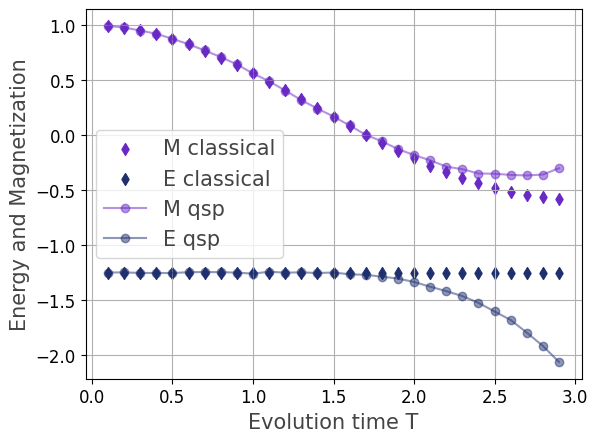
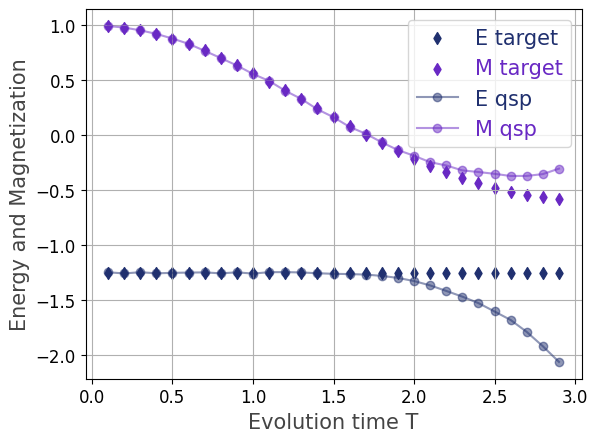
Renamed qsp state_preparation to fourier_series_loader; some improvements to qsp documentation

diff --git a/src/qrisp/algorithms/gqsp/fourier_series_loader.py b/src/qrisp/algorithms/gqsp/fourier_series_loader.py
@@ -33,7 +33,8 @@ def U(qv, scaling_factor=1.0):
         p(scaling_factor * np.pi * 2.0 ** (i - qv.size + 1), qv[i])
 
 
-def state_preparation(qarg, target_array, k=1, mode="standard"):
+# QSP version of https://iopscience.iop.org/article/10.1088/2058-9565/acfc62
+def fourier_series_loader(qarg, signal=None, frequencies=None, k=1, mode="standard"):
     r"""
     Performs band-limited quantum state preparation.
 
@@ -70,11 +71,14 @@ def state_preparation(qarg, target_array, k=1, mode="standard"):
     ----------
     qarg : QuantumVariable
         The input variable in state $\ket{0}$.
-    target_array : ndarray
+    signal : ndarray, optional
         1-D array of input signal values with shape ``(M,)``.
+        Either ``signal`` or ``frequencies`` must be specified.
+    frequencies : ndarray, optional
+        1-D array of input frequency values in the range $[-K,K]$ with shape ``(2K+1,)``.
     k : int, optional
         The frequency cutoff. Only frequencies in the range $[-k,k]$ are preserved.
-    mode: str, optional
+    mode : str, optional
         Available are 
         
         - ``"standard"``: frequencies are caluclated from ``target_array`` via FFT,
@@ -97,17 +101,17 @@ def state_preparation(qarg, target_array, k=1, mode="standard"):
         import matplotlib.pyplot as plt
         import numpy as np
         from qrisp import *
-        from qrisp.gqsp import state_preparation
+        from qrisp.gqsp import fourier_series_loader
 
 
         # Gaussian 
         def f(x):
-            return jnp.exp(-2*x**2)
+            return jnp.exp(-2 * x ** 2)
 
 
         # Converts the function to be executed within a repeat-until-success (RUS) procedure.
         @RUS(static_argnums=1)
-        def preprare_gaussian(n, k):
+        def prepare_gaussian(n, k):
 
             # Evaluate f at equidistant sample points
             delta = 2.0 ** (-2 * k)
@@ -116,7 +120,7 @@ def state_preparation(qarg, target_array, k=1, mode="standard"):
             y_val = y_val / jnp.linalg.norm(y_val)
 
             qv = QuantumFloat(n)
-            qbl = state_preparation(qv, y_val, k=k)
+            qbl = fourier_series_loader(qv, y_val, k=k)
             success_bool = measure(qbl) == 0
             return success_bool, qv
 
@@ -125,34 +129,32 @@ def state_preparation(qarg, target_array, k=1, mode="standard"):
         # and afterwards samples from the resulting quantum state.
         @terminal_sampling
         def main():
-            qv =  preprare_gaussian(10, 2)
+            qv =  prepare_gaussian(10, 2)
             return qv   
 
 
         # Convert the resulting measurement probabilities to amplitudes by appling the square root.
         res_dict = main()
         for k,v in res_dict.items():
-            res_dict[k] = v**0.5 
+            res_dict[k] = v ** 0.5 
         y_val_sim = np.array([res_dict.get(key,0) for key in sorted(res_dict.keys())])
         y_val_sim = y_val_sim/np.linalg.norm(y_val_sim)
 
-        # Compare to classical values
+        # Compare to target values
         x_val = np.linspace(-1, 1, len(y_val_sim))
         y_val = f(x_val)
         y_val = y_val / np.linalg.norm(y_val)
 
-        plt.scatter(x_val, y_val, color='#20306f', marker="o", linestyle="solid", s=20, label="classical")
-        plt.scatter(x_val, y_val_sim, color='#6929C4', marker="d", linestyle="solid", s=20, label="quantum")
-        plt.xlabel("x", fontsize=16, color="#444444")
-        plt.ylabel("Amplitudes f(x)", fontsize=16, color="#444444")
-        plt.xticks(fontsize=12)
-        plt.yticks(fontsize=12)
-        plt.legend(fontsize=16, labelcolor='linecolor')
-        plt.tight_layout()
+        plt.scatter(x_val, y_val, color='#20306f', marker="d", linestyle="solid", s=20, label="target")
+        plt.scatter(x_val, y_val_sim, color='#6929C4', marker="o", linestyle="solid", s=20, label="qsp")
+        plt.xlabel("x", fontsize=15, color="#444444")
+        plt.ylabel("Amplitudes f(x)", fontsize=15, color="#444444")
+        plt.legend(fontsize=15, labelcolor='linecolor')
+        plt.tick_params(axis='both', labelsize=12)
         plt.grid()
         plt.show()
 
-    .. image:: /_static/gaussian.png
+    .. image:: /_static/qsp_gaussian.png
         :alt: Gaussian state preparation
         :align: center
         :width: 600px
@@ -163,7 +165,7 @@ def state_preparation(qarg, target_array, k=1, mode="standard"):
 
         @count_ops(meas_behavior="0")
         def main():
-            qv =  preprare_gaussian(10, 2)
+            qv =  prepare_gaussian(10, 2)
             return qv   
 
         main()
@@ -172,25 +174,31 @@ def state_preparation(qarg, target_array, k=1, mode="standard"):
     """
     
     ALLOWED_MODES = {"standard", "mirror"}
-    
-    if mode=="standard":
-        # Discrete Fourier transform
-        frequencies = jnp.fft.fft(target_array)
-        scaling_factor = 1.0
-    elif mode=="mirror":
-        # Mirror padding to mitiagate artifacts at the boundaries
-        target_array_mirr = jnp.concatenate([target_array, target_array[::-1]])
-        # Discrete Fourier transform
-        frequencies = jnp.fft.fft(target_array_mirr)
-        scaling_factor = 0.5
-    else:
-        raise ValueError(
-            f"Invalid mode specified: '{mode}'. "
-            f"Allowed kinds are: {', '.join(ALLOWED_MODES)}"
-        )
 
-    # Compression
-    compressed_frequencies = jnp.concatenate([frequencies[-k:], frequencies[:k+1]])
+    if frequencies is not None:
+        K = (len(frequencies) - 1) // 2 
+        compressed_frequencies = frequencies[K-k : K+k+1]
+    elif signal is not None:
+        if mode=="standard":
+            # Discrete Fourier transform
+            frequencies = jnp.fft.fft(signal)
+            scaling_factor = 1.0
+        elif mode=="mirror":
+            # Mirror padding to mitiagate artifacts at the boundaries
+            target_array_mirr = jnp.concatenate([signal, signal[::-1]])
+            # Discrete Fourier transform
+            frequencies = jnp.fft.fft(target_array_mirr)
+            scaling_factor = 0.5
+        else:
+            raise ValueError(
+                f"Invalid mode specified: '{mode}'. "
+                f"Allowed kinds are: {', '.join(ALLOWED_MODES)}"
+            )
+
+        # Compression
+        compressed_frequencies = jnp.concatenate([frequencies[-k:], frequencies[:k+1]])
+    else:
+        raise Exception("Either signal or frequencies must be specified")
 
     h(qarg)
 

diff --git a/src/qrisp/algorithms/gqsp/hamiltonian_simulation.py b/src/qrisp/algorithms/gqsp/hamiltonian_simulation.py
@@ -155,13 +155,13 @@ def hamiltonian_simulation(qarg, H, t=1, N=1):
         M_qsp, E_qsp = sim_qsp(T_values, H, M)
 
         # Plot the results
-        plt.scatter(T_values, M_classical, color='#6929C4', marker="d", label="M classical")
-        plt.scatter(T_values, E_classical, color='#20306f', marker="d", label="E classical")
+        plt.scatter(T_values, E_classical, color='#20306f', marker="d", label="E target")
+        plt.scatter(T_values, M_classical, color='#6929C4', marker="d", label="M target")
+        plt.plot(T_values, E_qsp, color='#20306f', marker="o", linestyle="solid", alpha=0.5, label="E qsp")
         plt.plot(T_values, M_qsp, color='#6929C4', marker="o", linestyle="solid", alpha=0.5, label="M qsp")
-        plt.plot(T_values, E_qsp, color='#20306f', marker="o", linestyle="solid", alpha=0.5, label="E qsp}")
         plt.xlabel("Evolution time T", fontsize=15, color="#444444")
         plt.ylabel("Energy and Magnetization", fontsize=15, color="#444444")
-        plt.legend(fontsize=15, labelcolor="#444444")
+        plt.legend(fontsize=15, labelcolor='linecolor')
         plt.tick_params(axis='both', labelsize=12)
         plt.grid()
         plt.show()

diff --git a/src/qrisp/algorithms/gqsp/convolution.py b/src/qrisp/algorithms/gqsp/convolution.py
@@ -79,11 +79,11 @@ def convolve(qarg, weights):
 
     ::
 
-        from scipy.ndimage import convolve
+        from scipy.ndimage import convolve as scipy_convolve
 
         # Mode 'wrap' performs cyclic convolution
-        convolved_signal = convolve(psi, f, mode='wrap')
-        print(convolved_signal)
+        convolved_signal_target = scipy_convolve(psi, f, mode='wrap')
+        print(convolved_signal_target)
         # [0.75 1.   1.   0.75 0.25 0.   0.   0.25]
 
     ::
@@ -116,7 +116,8 @@ def convolve(qarg, weights):
         max_ = max(res_dict.values())
         for k,v in res_dict.items():
             res_dict[k] = (v / max_) ** 0.5 
-        np.array([res_dict.get(key,0) for key in range(8)])
+        convolved_signal = np.array([res_dict.get(key,0) for key in range(8)])
+        print(convolved_signal)
         #array([0.7499999 , 1.        , 1.        , 0.74999996, 0.24999994, 0.        , 0.        , 0.25000007])
 
     """

diff --git a/tests/algorithms_tests/qsp_tests/test_qsp_fourier_series_loader.py b/tests/algorithms_tests/qsp_tests/test_qsp_fourier_series_loader.py
@@ -19,7 +19,7 @@
 import jax.numpy as jnp
 import numpy as np
 from qrisp import *
-from qrisp.gqsp import state_preparation
+from qrisp.gqsp import fourier_series_loader
 
 # Gaussian 
 def f(x):
@@ -36,7 +36,7 @@ def preprare_gaussian(n, k):
     y_val = y_val / jnp.linalg.norm(y_val)
 
     qv = QuantumFloat(n)
-    qbl = state_preparation(qv, y_val, k=k)
+    qbl = fourier_series_loader(qv, y_val, k=k)
     success_bool = measure(qbl) == 0
     return success_bool, qv
 
@@ -56,7 +56,7 @@ def test_qsp_gaussian():
     y_val_sim = np.array([res_dict.get(key, 0) for key in sorted(res_dict.keys())])
     y_val_sim = y_val_sim / np.linalg.norm(y_val_sim)
 
-    # Compare to classical values
+    # Compare to target values
     x_val = np.linspace(-1, 1, len(y_val_sim))
     y_val = f(x_val)
     y_val = y_val / np.linalg.norm(y_val)

diff --git a/tests/algorithms_tests/qsp_tests/test_qsp_convolution.py b/tests/algorithms_tests/qsp_tests/test_qsp_convolution.py
@@ -30,7 +30,7 @@ def test_qsp_convolution():
     f = np.array([0.25, 0.5, 0.25])
 
     # Mode 'wrap' performs cyclic convolution
-    convolved_signal_scipy = scipy_convolve(psi, f, mode='wrap')
+    convolved_signal_target = scipy_convolve(psi, f, mode='wrap')
     # [0.75 1.   1.   0.75 0.25 0.   0.   0.25]
 
     def psi_prep():
@@ -60,4 +60,4 @@ def test_qsp_convolution():
         res_dict[k] = (v / max_) ** 0.5 
     convolved_signal = np.array([res_dict.get(key, 0) for key in range(8)])
     #array([0.7499999 , 1.        , 1.        , 0.74999996, 0.24999994, 0.        , 0.        , 0.25000007])
-    assert np.linalg.norm(convolved_signal_scipy - convolved_signal) < 1e-4
+    assert np.linalg.norm(convolved_signal_target - convolved_signal) < 1e-4

diff --git a/tests/algorithms_tests/qsp_tests/test_qsp.py b/tests/algorithms_tests/qsp_tests/test_qsp.py
@@ -63,7 +63,7 @@ def test_qsp(poly, k):
     res_dict = main()
     res = np.array([res_dict.get(key, 0) for key in range(4)]) # Measurement probabilities
 
-    # Compare to classical values
+    # Compare to target values
     H_arr = H.to_array()
     res_numpy = expvalm(poly, k, H_arr) @ np.array([1,0,0,0])
     res_numpy = np.abs(res_numpy / np.linalg.norm(res_numpy)) ** 2

diff --git a/src/qrisp/algorithms/gqsp/__init__.py b/src/qrisp/algorithms/gqsp/__init__.py
@@ -22,4 +22,4 @@ from qrisp.algorithms.gqsp.gqet import *
 from qrisp.algorithms.gqsp.convolution import *
 from qrisp.algorithms.gqsp.hamiltonian_simulation import *
 from qrisp.algorithms.gqsp.helper_functions import *
-from qrisp.algorithms.gqsp.state_preparation import *
+from qrisp.algorithms.gqsp.fourier_series_loader import *

diff --git a/src/qrisp/algorithms/gqsp/gqet.py b/src/qrisp/algorithms/gqsp/gqet.py
@@ -129,7 +129,7 @@ def GQET(qarg, H, p, kind="Polynomial"):
         print(main())
         # -16.67236953920006 
 
-    Finally, we compare the quantum simulation to the corresponding numpy calculation:
+    Finally, we compare the quantum simulation to the classically calculated result:
 
     ::
 

diff --git a/tests/algorithms_tests/qsp_tests/test_qsp_qet.py b/tests/algorithms_tests/qsp_tests/test_qsp_qet.py
@@ -79,7 +79,7 @@ def test_qsp_qet(L, poly):
     E0 = H.expectation_value(psi_prep, precision=0.001)()
     E1 = main()
 
-    # Compare to classical values
+    # Compare to target values
     # Calculate energy for |psi_0>
     H_arr = H.to_array()
     psi_0 = psi_prep().qs.statevector_array()

diff --git a/documentation/source/reference/Algorithms/GQSP.rst b/documentation/source/reference/Algorithms/GQSP.rst
@@ -30,4 +30,4 @@ Miscellaneous
     GQET
     hamiltonian_simulation
     convolve
-    state_preparation
+    fourier_series_loader
